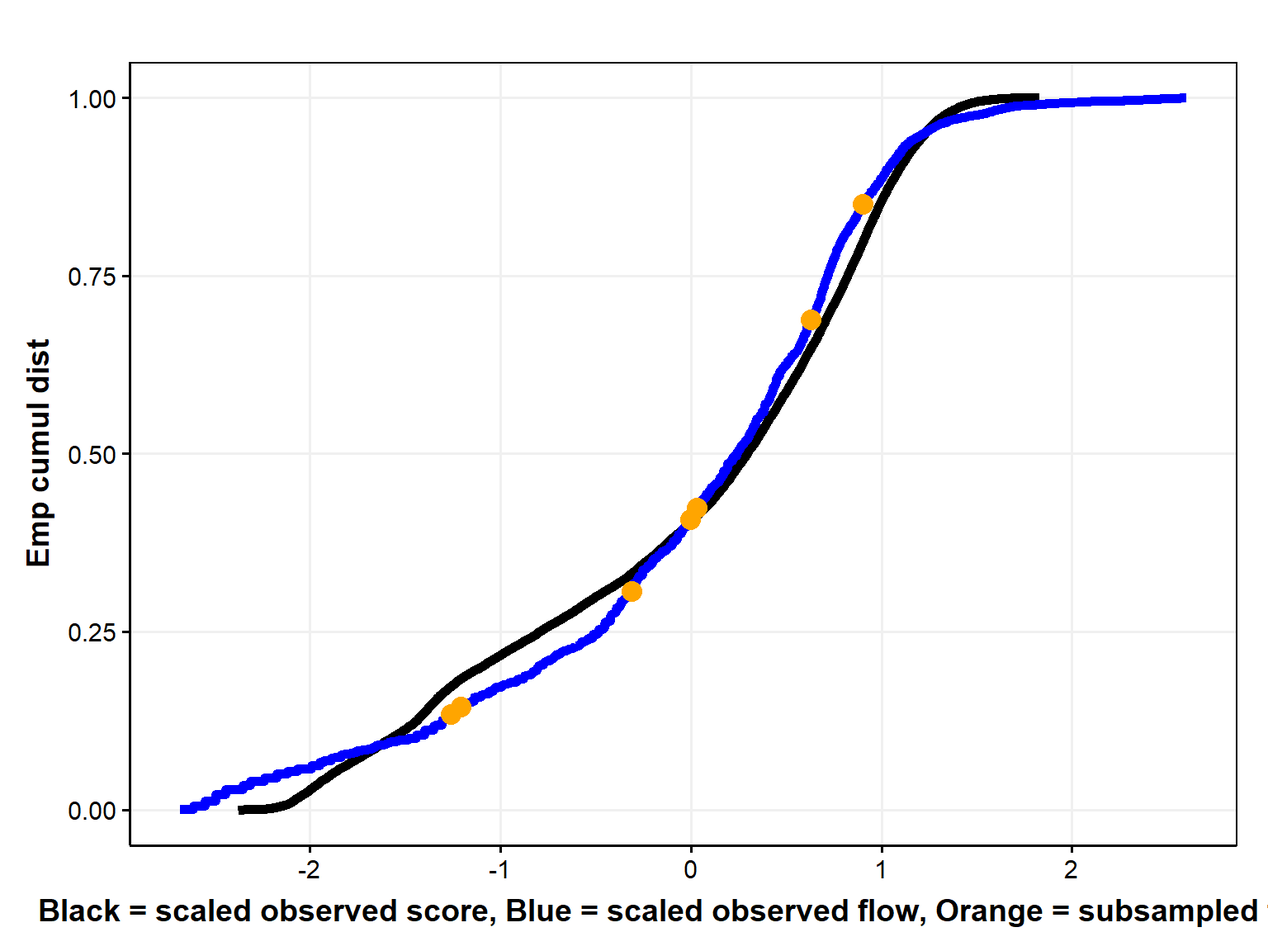
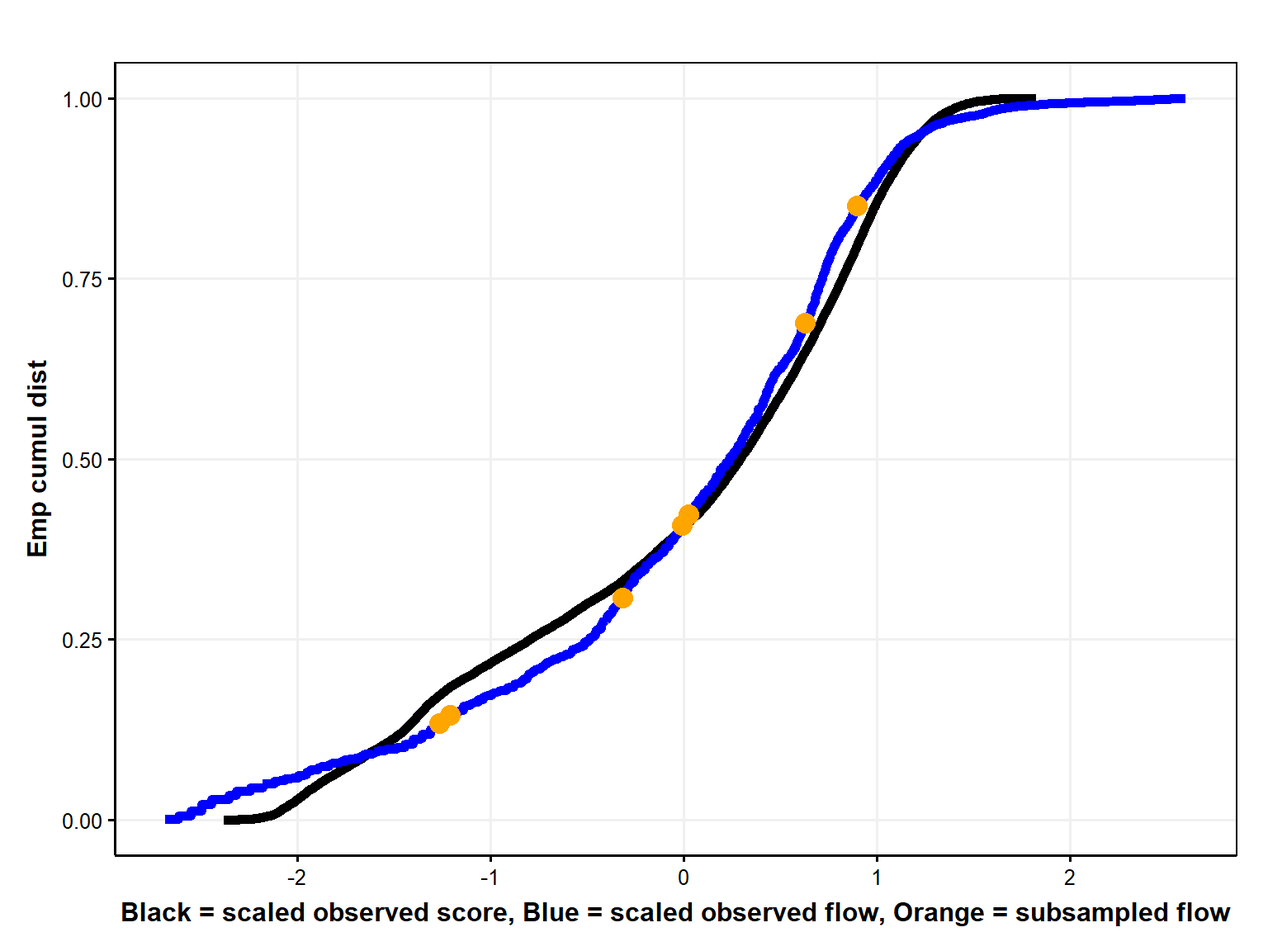
update

diff --git a/docs/realData.html b/docs/realData.html
@@ -754,7 +754,7 @@ $ifailtext
 <div class="cell">
 <details class="code-fold">
 <summary>Code</summary>
-<div class="sourceCode cell-code" id="cb26"><pre class="sourceCode r code-with-copy"><code class="sourceCode r"><span id="cb26-1"><a href="#cb26-1" aria-hidden="true" tabindex="-1"></a>get_observed_data_figs <span class="ot">&lt;-</span> <span class="cf">function</span>(dIn, dInSampleApprox, dInSample) {</span>
+<div class="sourceCode cell-code" id="cb26"><pre class="sourceCode r code-with-copy"><code class="sourceCode r"><span id="cb26-1"><a href="#cb26-1" aria-hidden="true" tabindex="-1"></a>get_observed_data_figs <span class="ot">&lt;-</span> <span class="cf">function</span>(dIn, dInSampleApprox, dInSample, <span class="at">base_size =</span> <span class="dv">12</span>) {</span>
 <span id="cb26-2"><a href="#cb26-2" aria-hidden="true" tabindex="-1"></a>  </span>
 <span id="cb26-3"><a href="#cb26-3" aria-hidden="true" tabindex="-1"></a>  fig_all <span class="ot">&lt;-</span> <span class="fu">ggplot</span>(dIn, <span class="fu">aes</span>(score_scaled, score_scaled_ecdf)) <span class="sc">+</span> </span>
 <span id="cb26-4"><a href="#cb26-4" aria-hidden="true" tabindex="-1"></a>    <span class="fu">geom_line</span>(<span class="at">size =</span> <span class="dv">2</span>) <span class="sc">+</span></span>
@@ -762,7 +762,7 @@ $ifailtext
 <span id="cb26-6"><a href="#cb26-6" aria-hidden="true" tabindex="-1"></a>    <span class="fu">geom_line</span>(<span class="fu">aes</span>(flow_cfs_log10_scaled, flow_cfs_log10_scaled_ecdf), <span class="at">color =</span> <span class="st">"blue"</span>, <span class="at">size =</span> <span class="dv">2</span>) <span class="sc">+</span></span>
 <span id="cb26-7"><a href="#cb26-7" aria-hidden="true" tabindex="-1"></a>    <span class="fu">geom_point</span>(<span class="fu">aes</span>(flow_cfs_log10_scaled, flow_cfs_log10_scaled_ecdf), <span class="at">color =</span> <span class="st">"orange"</span>, <span class="at">size =</span> <span class="dv">4</span>, <span class="at">data =</span> dInSample) <span class="sc">+</span></span>
 <span id="cb26-8"><a href="#cb26-8" aria-hidden="true" tabindex="-1"></a>    <span class="fu">labs</span>(<span class="at">x =</span> <span class="st">"Black = scaled observed score, Blue = scaled observed flow, Orange = subsampled flow"</span>, <span class="at">y =</span> <span class="st">"Emp cumul dist"</span>) <span class="sc">+</span></span>
-<span id="cb26-9"><a href="#cb26-9" aria-hidden="true" tabindex="-1"></a>    <span class="fu">theme_publication</span>() </span>
+<span id="cb26-9"><a href="#cb26-9" aria-hidden="true" tabindex="-1"></a>    <span class="fu">theme_publication</span>(<span class="at">base_size =</span> base_size) </span>
 <span id="cb26-10"><a href="#cb26-10" aria-hidden="true" tabindex="-1"></a>  </span>
 <span id="cb26-11"><a href="#cb26-11" aria-hidden="true" tabindex="-1"></a></span>
 <span id="cb26-12"><a href="#cb26-12" aria-hidden="true" tabindex="-1"></a> </span>
@@ -775,7 +775,7 @@ $ifailtext
 <span id="cb26-19"><a href="#cb26-19" aria-hidden="true" tabindex="-1"></a>  )</span>
 <span id="cb26-20"><a href="#cb26-20" aria-hidden="true" tabindex="-1"></a>}</span>
 <span id="cb26-21"><a href="#cb26-21" aria-hidden="true" tabindex="-1"></a></span>
-<span id="cb26-22"><a href="#cb26-22" aria-hidden="true" tabindex="-1"></a>get_smoothed_data_figs <span class="ot">&lt;-</span> <span class="cf">function</span>(dIn, dInSampleApprox, dInSample) {</span>
+<span id="cb26-22"><a href="#cb26-22" aria-hidden="true" tabindex="-1"></a>get_smoothed_data_figs <span class="ot">&lt;-</span> <span class="cf">function</span>(dIn, dInSampleApprox, dInSample, <span class="at">base_size_in =</span> <span class="dv">12</span>) {</span>
 <span id="cb26-23"><a href="#cb26-23" aria-hidden="true" tabindex="-1"></a> </span>
 <span id="cb26-24"><a href="#cb26-24" aria-hidden="true" tabindex="-1"></a>  fig_smooth_binomial <span class="ot">&lt;-</span> <span class="fu">ggplot</span>(dIn, <span class="fu">aes</span>(score_scaled, score_scaled_ecdf)) <span class="sc">+</span> </span>
 <span id="cb26-25"><a href="#cb26-25" aria-hidden="true" tabindex="-1"></a>    <span class="fu">geom_line</span>() <span class="sc">+</span></span>
@@ -787,7 +787,7 @@ $ifailtext
 <span id="cb26-31"><a href="#cb26-31" aria-hidden="true" tabindex="-1"></a>      ) <span class="sc">+</span></span>
 <span id="cb26-32"><a href="#cb26-32" aria-hidden="true" tabindex="-1"></a>    <span class="fu">labs</span>(<span class="at">x =</span> <span class="st">""</span>, <span class="at">y =</span> <span class="st">"Emp cumul dist"</span>) <span class="sc">+</span></span>
 <span id="cb26-33"><a href="#cb26-33" aria-hidden="true" tabindex="-1"></a>    <span class="fu">ggtitle</span>(<span class="st">"Binomial smooth of subsampled flow"</span>) <span class="sc">+</span></span>
-<span id="cb26-34"><a href="#cb26-34" aria-hidden="true" tabindex="-1"></a>    <span class="fu">theme_publication</span>() <span class="sc">+</span></span>
+<span id="cb26-34"><a href="#cb26-34" aria-hidden="true" tabindex="-1"></a>    <span class="fu">theme_publication</span>(<span class="at">base_size =</span> base_size_in) <span class="sc">+</span></span>
 <span id="cb26-35"><a href="#cb26-35" aria-hidden="true" tabindex="-1"></a>    <span class="fu">theme</span>(<span class="at">plot.title =</span> <span class="fu">element_text</span>(<span class="at">size =</span> <span class="fu">rel</span>(<span class="fl">0.8</span>)))</span>
 <span id="cb26-36"><a href="#cb26-36" aria-hidden="true" tabindex="-1"></a>  </span>
 <span id="cb26-37"><a href="#cb26-37" aria-hidden="true" tabindex="-1"></a>    </span>
@@ -801,7 +801,7 @@ $ifailtext
 <span id="cb26-45"><a href="#cb26-45" aria-hidden="true" tabindex="-1"></a>      ) <span class="sc">+</span></span>
 <span id="cb26-46"><a href="#cb26-46" aria-hidden="true" tabindex="-1"></a>    <span class="fu">labs</span>(<span class="at">x =</span> <span class="st">"Black = scaled image score, Orange = subsampled flow"</span>, <span class="at">y =</span> <span class="st">"Emp cumul dist"</span>) <span class="sc">+</span></span>
 <span id="cb26-47"><a href="#cb26-47" aria-hidden="true" tabindex="-1"></a>    <span class="fu">ggtitle</span>(<span class="st">"GAM smooth of subsampled flow"</span>) <span class="sc">+</span></span>
-<span id="cb26-48"><a href="#cb26-48" aria-hidden="true" tabindex="-1"></a>    <span class="fu">theme_publication</span>() <span class="sc">+</span></span>
+<span id="cb26-48"><a href="#cb26-48" aria-hidden="true" tabindex="-1"></a>    <span class="fu">theme_publication</span>(<span class="at">base_size =</span> base_size_in) <span class="sc">+</span></span>
 <span id="cb26-49"><a href="#cb26-49" aria-hidden="true" tabindex="-1"></a>    <span class="fu">theme</span>(<span class="at">plot.title =</span> <span class="fu">element_text</span>(<span class="at">size =</span> <span class="fu">rel</span>(<span class="fl">0.8</span>)))</span>
 <span id="cb26-50"><a href="#cb26-50" aria-hidden="true" tabindex="-1"></a>  </span>
 <span id="cb26-51"><a href="#cb26-51" aria-hidden="true" tabindex="-1"></a>  <span class="co"># make ggtitle smaller </span></span>
@@ -812,7 +812,7 @@ $ifailtext
 <span id="cb26-56"><a href="#cb26-56" aria-hidden="true" tabindex="-1"></a>    <span class="fu">labs</span>(<span class="at">x =</span> <span class="st">""</span>, <span class="at">y =</span> <span class="st">"Emp cumul dist"</span>) <span class="sc">+</span></span>
 <span id="cb26-57"><a href="#cb26-57" aria-hidden="true" tabindex="-1"></a>    <span class="co"># smaller font size for ggtitle </span></span>
 <span id="cb26-58"><a href="#cb26-58" aria-hidden="true" tabindex="-1"></a>    <span class="fu">ggtitle</span>(<span class="st">"Linear interpolation of subsampled flow"</span>) <span class="sc">+</span></span>
-<span id="cb26-59"><a href="#cb26-59" aria-hidden="true" tabindex="-1"></a>    <span class="fu">theme_publication</span>() <span class="sc">+</span></span>
+<span id="cb26-59"><a href="#cb26-59" aria-hidden="true" tabindex="-1"></a>    <span class="fu">theme_publication</span>(<span class="at">base_size =</span> base_size_in) <span class="sc">+</span></span>
 <span id="cb26-60"><a href="#cb26-60" aria-hidden="true" tabindex="-1"></a>    <span class="fu">theme</span>(<span class="at">plot.title =</span> <span class="fu">element_text</span>(<span class="at">size =</span> <span class="fu">rel</span>(<span class="fl">0.8</span>)))</span>
 <span id="cb26-61"><a href="#cb26-61" aria-hidden="true" tabindex="-1"></a>  </span>
 <span id="cb26-62"><a href="#cb26-62" aria-hidden="true" tabindex="-1"></a>  <span class="fu">return</span>(</span>
@@ -825,7 +825,7 @@ $ifailtext
 <span id="cb26-69"><a href="#cb26-69" aria-hidden="true" tabindex="-1"></a>}</span>
 <span id="cb26-70"><a href="#cb26-70" aria-hidden="true" tabindex="-1"></a></span>
 <span id="cb26-71"><a href="#cb26-71" aria-hidden="true" tabindex="-1"></a></span>
-<span id="cb26-72"><a href="#cb26-72" aria-hidden="true" tabindex="-1"></a>plotSubSample <span class="ot">&lt;-</span> <span class="cf">function</span>(dIn0, numSample){</span>
+<span id="cb26-72"><a href="#cb26-72" aria-hidden="true" tabindex="-1"></a>plotSubSample <span class="ot">&lt;-</span> <span class="cf">function</span>(dIn0, numSample, <span class="at">base_size_in =</span> <span class="dv">12</span>){</span>
 <span id="cb26-73"><a href="#cb26-73" aria-hidden="true" tabindex="-1"></a></span>
 <span id="cb26-74"><a href="#cb26-74" aria-hidden="true" tabindex="-1"></a>   dIn <span class="ot">&lt;-</span> dIn0 <span class="sc">|&gt;</span> </span>
 <span id="cb26-75"><a href="#cb26-75" aria-hidden="true" tabindex="-1"></a>     dplyr<span class="sc">::</span><span class="fu">select</span>(</span>
@@ -851,8 +851,8 @@ $ifailtext
 <span id="cb26-95"><a href="#cb26-95" aria-hidden="true" tabindex="-1"></a>    )</span>
 <span id="cb26-96"><a href="#cb26-96" aria-hidden="true" tabindex="-1"></a>  </span>
 <span id="cb26-97"><a href="#cb26-97" aria-hidden="true" tabindex="-1"></a>  <span class="co"># these data are the same with or without anchors</span></span>
-<span id="cb26-98"><a href="#cb26-98" aria-hidden="true" tabindex="-1"></a>  get_observed_data_figs <span class="ot">&lt;-</span> <span class="fu">get_observed_data_figs</span>(dIn, dInSampleApprox_no_anchors, dInSample_no_anchors)</span>
-<span id="cb26-99"><a href="#cb26-99" aria-hidden="true" tabindex="-1"></a>  get_smoothed_data_figs_no_anchors <span class="ot">&lt;-</span> <span class="fu">get_smoothed_data_figs</span>(dIn, dInSampleApprox_no_anchors, dInSample_no_anchors)</span>
+<span id="cb26-98"><a href="#cb26-98" aria-hidden="true" tabindex="-1"></a>  get_observed_data_figs <span class="ot">&lt;-</span> <span class="fu">get_observed_data_figs</span>(dIn, dInSampleApprox_no_anchors, dInSample_no_anchors, <span class="at">base_size =</span> base_size_in)</span>
+<span id="cb26-99"><a href="#cb26-99" aria-hidden="true" tabindex="-1"></a>  get_smoothed_data_figs_no_anchors <span class="ot">&lt;-</span> <span class="fu">get_smoothed_data_figs</span>(dIn, dInSampleApprox_no_anchors, dInSample_no_anchors, <span class="at">base_size =</span> base_size_in)</span>
 <span id="cb26-100"><a href="#cb26-100" aria-hidden="true" tabindex="-1"></a>  </span>
 <span id="cb26-101"><a href="#cb26-101" aria-hidden="true" tabindex="-1"></a>  figs_observed_data <span class="ot">&lt;-</span> <span class="co">#ggarrange(</span></span>
 <span id="cb26-102"><a href="#cb26-102" aria-hidden="true" tabindex="-1"></a>    get_observed_data_figs<span class="sc">$</span>fig_all </span>
@@ -913,8 +913,8 @@ $ifailtext
 <div class="cell">
 <details class="code-fold">
 <summary>Code</summary>
-<div class="sourceCode cell-code" id="cb27"><pre class="sourceCode r code-with-copy"><code class="sourceCode r"><span id="cb27-1"><a href="#cb27-1" aria-hidden="true" tabindex="-1"></a>dummy <span class="ot">&lt;-</span> <span class="dv">1</span></span>
-<span id="cb27-2"><a href="#cb27-2" aria-hidden="true" tabindex="-1"></a><span class="fu">plotSubSample</span>(dWB0, <span class="dv">100</span>)</span></code><button title="Copy to Clipboard" class="code-copy-button"><i class="bi"></i></button></pre></div>
+<div class="sourceCode cell-code" id="cb27"><pre class="sourceCode r code-with-copy"><code class="sourceCode r"><span id="cb27-1"><a href="#cb27-1" aria-hidden="true" tabindex="-1"></a>dummy <span class="ot">&lt;-</span> <span class="dv">2</span></span>
+<span id="cb27-2"><a href="#cb27-2" aria-hidden="true" tabindex="-1"></a><span class="fu">plotSubSample</span>(dWB0, <span class="dv">100</span>, <span class="at">base_size_in =</span> <span class="dv">10</span>)</span></code><button title="Copy to Clipboard" class="code-copy-button"><i class="bi"></i></button></pre></div>
 </details>
 <div class="cell-output cell-output-stdout">
 <pre><code>$figs_observed_data</code></pre>
@@ -955,8 +955,8 @@ $figs_smoothed_data_with_anchors</code></pre>
 <div class="cell">
 <details class="code-fold">
 <summary>Code</summary>
-<div class="sourceCode cell-code" id="cb31"><pre class="sourceCode r code-with-copy"><code class="sourceCode r"><span id="cb31-1"><a href="#cb31-1" aria-hidden="true" tabindex="-1"></a>dummy <span class="ot">&lt;-</span> <span class="dv">1</span></span>
-<span id="cb31-2"><a href="#cb31-2" aria-hidden="true" tabindex="-1"></a><span class="fu">plotSubSample</span>(dWB0, <span class="dv">10</span>)</span></code><button title="Copy to Clipboard" class="code-copy-button"><i class="bi"></i></button></pre></div>
+<div class="sourceCode cell-code" id="cb31"><pre class="sourceCode r code-with-copy"><code class="sourceCode r"><span id="cb31-1"><a href="#cb31-1" aria-hidden="true" tabindex="-1"></a>dummy <span class="ot">&lt;-</span> <span class="dv">2</span></span>
+<span id="cb31-2"><a href="#cb31-2" aria-hidden="true" tabindex="-1"></a><span class="fu">plotSubSample</span>(dWB0, <span class="dv">10</span>, <span class="at">base_size_in =</span> <span class="dv">8</span>)</span></code><button title="Copy to Clipboard" class="code-copy-button"><i class="bi"></i></button></pre></div>
 </details>
 <div class="cell-output cell-output-stdout">
 <pre><code>$figs_observed_data</code></pre>
@@ -997,7 +997,7 @@ $figs_smoothed_data_with_anchors</code></pre>
 <div class="cell">
 <details class="code-fold">
 <summary>Code</summary>
-<div class="sourceCode cell-code" id="cb35"><pre class="sourceCode r code-with-copy"><code class="sourceCode r"><span id="cb35-1"><a href="#cb35-1" aria-hidden="true" tabindex="-1"></a>dummy <span class="ot">&lt;-</span> <span class="dv">1</span></span>
+<div class="sourceCode cell-code" id="cb35"><pre class="sourceCode r code-with-copy"><code class="sourceCode r"><span id="cb35-1"><a href="#cb35-1" aria-hidden="true" tabindex="-1"></a>dummy <span class="ot">&lt;-</span> <span class="dv">2</span></span>
 <span id="cb35-2"><a href="#cb35-2" aria-hidden="true" tabindex="-1"></a><span class="fu">plotSubSample</span>(dWB0, <span class="dv">7</span>)</span></code><button title="Copy to Clipboard" class="code-copy-button"><i class="bi"></i></button></pre></div>
 </details>
 <div class="cell-output cell-output-stdout">
@@ -1039,7 +1039,7 @@ $figs_smoothed_data_with_anchors</code></pre>
 <div class="cell">
 <details class="code-fold">
 <summary>Code</summary>
-<div class="sourceCode cell-code" id="cb39"><pre class="sourceCode r code-with-copy"><code class="sourceCode r"><span id="cb39-1"><a href="#cb39-1" aria-hidden="true" tabindex="-1"></a>dummy <span class="ot">&lt;-</span> <span class="dv">1</span></span>
+<div class="sourceCode cell-code" id="cb39"><pre class="sourceCode r code-with-copy"><code class="sourceCode r"><span id="cb39-1"><a href="#cb39-1" aria-hidden="true" tabindex="-1"></a>dummy <span class="ot">&lt;-</span> <span class="dv">2</span></span>
 <span id="cb39-2"><a href="#cb39-2" aria-hidden="true" tabindex="-1"></a><span class="fu">plotSubSample</span>(dWB0, <span class="dv">4</span>)</span></code><button title="Copy to Clipboard" class="code-copy-button"><i class="bi"></i></button></pre></div>
 </details>
 <div class="cell-output cell-output-stdout">
@@ -1081,7 +1081,7 @@ $figs_smoothed_data_with_anchors</code></pre>
 <div class="cell">
 <details class="code-fold">
 <summary>Code</summary>
-<div class="sourceCode cell-code" id="cb43"><pre class="sourceCode r code-with-copy"><code class="sourceCode r"><span id="cb43-1"><a href="#cb43-1" aria-hidden="true" tabindex="-1"></a>dummy <span class="ot">&lt;-</span> <span class="dv">1</span></span>
+<div class="sourceCode cell-code" id="cb43"><pre class="sourceCode r code-with-copy"><code class="sourceCode r"><span id="cb43-1"><a href="#cb43-1" aria-hidden="true" tabindex="-1"></a>dummy <span class="ot">&lt;-</span> <span class="dv">2</span></span>
 <span id="cb43-2"><a href="#cb43-2" aria-hidden="true" tabindex="-1"></a><span class="fu">plotSubSample</span>(dWB0, <span class="dv">3</span>)</span></code><button title="Copy to Clipboard" class="code-copy-button"><i class="bi"></i></button></pre></div>
 </details>
 <div class="cell-output cell-output-stdout">
@@ -2132,7 +2132,7 @@ window.document.addEventListener("DOMContentLoaded", function (event) {
 <span id="cb50-376"><a href="#cb50-376" aria-hidden="true" tabindex="-1"></a><span class="in">```{r}</span></span>
 <span id="cb50-377"><a href="#cb50-377" aria-hidden="true" tabindex="-1"></a><span class="co">#| label: subsampleFlow</span></span>
 <span id="cb50-378"><a href="#cb50-378" aria-hidden="true" tabindex="-1"></a></span>
-<span id="cb50-379"><a href="#cb50-379" aria-hidden="true" tabindex="-1"></a>get_observed_data_figs <span class="ot">&lt;-</span> <span class="cf">function</span>(dIn, dInSampleApprox, dInSample) {</span>
+<span id="cb50-379"><a href="#cb50-379" aria-hidden="true" tabindex="-1"></a>get_observed_data_figs <span class="ot">&lt;-</span> <span class="cf">function</span>(dIn, dInSampleApprox, dInSample, <span class="at">base_size =</span> <span class="dv">12</span>) {</span>
 <span id="cb50-380"><a href="#cb50-380" aria-hidden="true" tabindex="-1"></a>  </span>
 <span id="cb50-381"><a href="#cb50-381" aria-hidden="true" tabindex="-1"></a>  fig_all <span class="ot">&lt;-</span> <span class="fu">ggplot</span>(dIn, <span class="fu">aes</span>(score_scaled, score_scaled_ecdf)) <span class="sc">+</span> </span>
 <span id="cb50-382"><a href="#cb50-382" aria-hidden="true" tabindex="-1"></a>    <span class="fu">geom_line</span>(<span class="at">size =</span> <span class="dv">2</span>) <span class="sc">+</span></span>
@@ -2140,7 +2140,7 @@ window.document.addEventListener("DOMContentLoaded", function (event) {
 <span id="cb50-384"><a href="#cb50-384" aria-hidden="true" tabindex="-1"></a>    <span class="fu">geom_line</span>(<span class="fu">aes</span>(flow_cfs_log10_scaled, flow_cfs_log10_scaled_ecdf), <span class="at">color =</span> <span class="st">"blue"</span>, <span class="at">size =</span> <span class="dv">2</span>) <span class="sc">+</span></span>
 <span id="cb50-385"><a href="#cb50-385" aria-hidden="true" tabindex="-1"></a>    <span class="fu">geom_point</span>(<span class="fu">aes</span>(flow_cfs_log10_scaled, flow_cfs_log10_scaled_ecdf), <span class="at">color =</span> <span class="st">"orange"</span>, <span class="at">size =</span> <span class="dv">4</span>, <span class="at">data =</span> dInSample) <span class="sc">+</span></span>
 <span id="cb50-386"><a href="#cb50-386" aria-hidden="true" tabindex="-1"></a>    <span class="fu">labs</span>(<span class="at">x =</span> <span class="st">"Black = scaled observed score, Blue = scaled observed flow, Orange = subsampled flow"</span>, <span class="at">y =</span> <span class="st">"Emp cumul dist"</span>) <span class="sc">+</span></span>
-<span id="cb50-387"><a href="#cb50-387" aria-hidden="true" tabindex="-1"></a>    <span class="fu">theme_publication</span>() </span>
+<span id="cb50-387"><a href="#cb50-387" aria-hidden="true" tabindex="-1"></a>    <span class="fu">theme_publication</span>(<span class="at">base_size =</span> base_size) </span>
 <span id="cb50-388"><a href="#cb50-388" aria-hidden="true" tabindex="-1"></a>  </span>
 <span id="cb50-389"><a href="#cb50-389" aria-hidden="true" tabindex="-1"></a></span>
 <span id="cb50-390"><a href="#cb50-390" aria-hidden="true" tabindex="-1"></a> </span>
@@ -2153,7 +2153,7 @@ window.document.addEventListener("DOMContentLoaded", function (event) {
 <span id="cb50-397"><a href="#cb50-397" aria-hidden="true" tabindex="-1"></a>  )</span>
 <span id="cb50-398"><a href="#cb50-398" aria-hidden="true" tabindex="-1"></a>}</span>
 <span id="cb50-399"><a href="#cb50-399" aria-hidden="true" tabindex="-1"></a></span>
-<span id="cb50-400"><a href="#cb50-400" aria-hidden="true" tabindex="-1"></a>get_smoothed_data_figs <span class="ot">&lt;-</span> <span class="cf">function</span>(dIn, dInSampleApprox, dInSample) {</span>
+<span id="cb50-400"><a href="#cb50-400" aria-hidden="true" tabindex="-1"></a>get_smoothed_data_figs <span class="ot">&lt;-</span> <span class="cf">function</span>(dIn, dInSampleApprox, dInSample, <span class="at">base_size_in =</span> <span class="dv">12</span>) {</span>
 <span id="cb50-401"><a href="#cb50-401" aria-hidden="true" tabindex="-1"></a> </span>
 <span id="cb50-402"><a href="#cb50-402" aria-hidden="true" tabindex="-1"></a>  fig_smooth_binomial <span class="ot">&lt;-</span> <span class="fu">ggplot</span>(dIn, <span class="fu">aes</span>(score_scaled, score_scaled_ecdf)) <span class="sc">+</span> </span>
 <span id="cb50-403"><a href="#cb50-403" aria-hidden="true" tabindex="-1"></a>    <span class="fu">geom_line</span>() <span class="sc">+</span></span>
@@ -2165,7 +2165,7 @@ window.document.addEventListener("DOMContentLoaded", function (event) {
 <span id="cb50-409"><a href="#cb50-409" aria-hidden="true" tabindex="-1"></a>      ) <span class="sc">+</span></span>
 <span id="cb50-410"><a href="#cb50-410" aria-hidden="true" tabindex="-1"></a>    <span class="fu">labs</span>(<span class="at">x =</span> <span class="st">""</span>, <span class="at">y =</span> <span class="st">"Emp cumul dist"</span>) <span class="sc">+</span></span>
 <span id="cb50-411"><a href="#cb50-411" aria-hidden="true" tabindex="-1"></a>    <span class="fu">ggtitle</span>(<span class="st">"Binomial smooth of subsampled flow"</span>) <span class="sc">+</span></span>
-<span id="cb50-412"><a href="#cb50-412" aria-hidden="true" tabindex="-1"></a>    <span class="fu">theme_publication</span>() <span class="sc">+</span></span>
+<span id="cb50-412"><a href="#cb50-412" aria-hidden="true" tabindex="-1"></a>    <span class="fu">theme_publication</span>(<span class="at">base_size =</span> base_size_in) <span class="sc">+</span></span>
 <span id="cb50-413"><a href="#cb50-413" aria-hidden="true" tabindex="-1"></a>    <span class="fu">theme</span>(<span class="at">plot.title =</span> <span class="fu">element_text</span>(<span class="at">size =</span> <span class="fu">rel</span>(<span class="fl">0.8</span>)))</span>
 <span id="cb50-414"><a href="#cb50-414" aria-hidden="true" tabindex="-1"></a>  </span>
 <span id="cb50-415"><a href="#cb50-415" aria-hidden="true" tabindex="-1"></a>    </span>
@@ -2179,7 +2179,7 @@ window.document.addEventListener("DOMContentLoaded", function (event) {
 <span id="cb50-423"><a href="#cb50-423" aria-hidden="true" tabindex="-1"></a>      ) <span class="sc">+</span></span>
 <span id="cb50-424"><a href="#cb50-424" aria-hidden="true" tabindex="-1"></a>    <span class="fu">labs</span>(<span class="at">x =</span> <span class="st">"Black = scaled image score, Orange = subsampled flow"</span>, <span class="at">y =</span> <span class="st">"Emp cumul dist"</span>) <span class="sc">+</span></span>
 <span id="cb50-425"><a href="#cb50-425" aria-hidden="true" tabindex="-1"></a>    <span class="fu">ggtitle</span>(<span class="st">"GAM smooth of subsampled flow"</span>) <span class="sc">+</span></span>
-<span id="cb50-426"><a href="#cb50-426" aria-hidden="true" tabindex="-1"></a>    <span class="fu">theme_publication</span>() <span class="sc">+</span></span>
+<span id="cb50-426"><a href="#cb50-426" aria-hidden="true" tabindex="-1"></a>    <span class="fu">theme_publication</span>(<span class="at">base_size =</span> base_size_in) <span class="sc">+</span></span>
 <span id="cb50-427"><a href="#cb50-427" aria-hidden="true" tabindex="-1"></a>    <span class="fu">theme</span>(<span class="at">plot.title =</span> <span class="fu">element_text</span>(<span class="at">size =</span> <span class="fu">rel</span>(<span class="fl">0.8</span>)))</span>
 <span id="cb50-428"><a href="#cb50-428" aria-hidden="true" tabindex="-1"></a>  </span>
 <span id="cb50-429"><a href="#cb50-429" aria-hidden="true" tabindex="-1"></a>  <span class="co"># make ggtitle smaller </span></span>
@@ -2190,7 +2190,7 @@ window.document.addEventListener("DOMContentLoaded", function (event) {
 <span id="cb50-434"><a href="#cb50-434" aria-hidden="true" tabindex="-1"></a>    <span class="fu">labs</span>(<span class="at">x =</span> <span class="st">""</span>, <span class="at">y =</span> <span class="st">"Emp cumul dist"</span>) <span class="sc">+</span></span>
 <span id="cb50-435"><a href="#cb50-435" aria-hidden="true" tabindex="-1"></a>    <span class="co"># smaller font size for ggtitle </span></span>
 <span id="cb50-436"><a href="#cb50-436" aria-hidden="true" tabindex="-1"></a>    <span class="fu">ggtitle</span>(<span class="st">"Linear interpolation of subsampled flow"</span>) <span class="sc">+</span></span>
-<span id="cb50-437"><a href="#cb50-437" aria-hidden="true" tabindex="-1"></a>    <span class="fu">theme_publication</span>() <span class="sc">+</span></span>
+<span id="cb50-437"><a href="#cb50-437" aria-hidden="true" tabindex="-1"></a>    <span class="fu">theme_publication</span>(<span class="at">base_size =</span> base_size_in) <span class="sc">+</span></span>
 <span id="cb50-438"><a href="#cb50-438" aria-hidden="true" tabindex="-1"></a>    <span class="fu">theme</span>(<span class="at">plot.title =</span> <span class="fu">element_text</span>(<span class="at">size =</span> <span class="fu">rel</span>(<span class="fl">0.8</span>)))</span>
 <span id="cb50-439"><a href="#cb50-439" aria-hidden="true" tabindex="-1"></a>  </span>
 <span id="cb50-440"><a href="#cb50-440" aria-hidden="true" tabindex="-1"></a>  <span class="fu">return</span>(</span>
@@ -2203,7 +2203,7 @@ window.document.addEventListener("DOMContentLoaded", function (event) {
 <span id="cb50-447"><a href="#cb50-447" aria-hidden="true" tabindex="-1"></a>}</span>
 <span id="cb50-448"><a href="#cb50-448" aria-hidden="true" tabindex="-1"></a></span>
 <span id="cb50-449"><a href="#cb50-449" aria-hidden="true" tabindex="-1"></a></span>
-<span id="cb50-450"><a href="#cb50-450" aria-hidden="true" tabindex="-1"></a>plotSubSample <span class="ot">&lt;-</span> <span class="cf">function</span>(dIn0, numSample){</span>
+<span id="cb50-450"><a href="#cb50-450" aria-hidden="true" tabindex="-1"></a>plotSubSample <span class="ot">&lt;-</span> <span class="cf">function</span>(dIn0, numSample, <span class="at">base_size_in =</span> <span class="dv">12</span>){</span>
 <span id="cb50-451"><a href="#cb50-451" aria-hidden="true" tabindex="-1"></a></span>
 <span id="cb50-452"><a href="#cb50-452" aria-hidden="true" tabindex="-1"></a>   dIn <span class="ot">&lt;-</span> dIn0 <span class="sc">|&gt;</span> </span>
 <span id="cb50-453"><a href="#cb50-453" aria-hidden="true" tabindex="-1"></a>     dplyr<span class="sc">::</span><span class="fu">select</span>(</span>
@@ -2229,8 +2229,8 @@ window.document.addEventListener("DOMContentLoaded", function (event) {
 <span id="cb50-473"><a href="#cb50-473" aria-hidden="true" tabindex="-1"></a>    )</span>
 <span id="cb50-474"><a href="#cb50-474" aria-hidden="true" tabindex="-1"></a>  </span>
 <span id="cb50-475"><a href="#cb50-475" aria-hidden="true" tabindex="-1"></a>  <span class="co"># these data are the same with or without anchors</span></span>
-<span id="cb50-476"><a href="#cb50-476" aria-hidden="true" tabindex="-1"></a>  get_observed_data_figs <span class="ot">&lt;-</span> <span class="fu">get_observed_data_figs</span>(dIn, dInSampleApprox_no_anchors, dInSample_no_anchors)</span>
-<span id="cb50-477"><a href="#cb50-477" aria-hidden="true" tabindex="-1"></a>  get_smoothed_data_figs_no_anchors <span class="ot">&lt;-</span> <span class="fu">get_smoothed_data_figs</span>(dIn, dInSampleApprox_no_anchors, dInSample_no_anchors)</span>
+<span id="cb50-476"><a href="#cb50-476" aria-hidden="true" tabindex="-1"></a>  get_observed_data_figs <span class="ot">&lt;-</span> <span class="fu">get_observed_data_figs</span>(dIn, dInSampleApprox_no_anchors, dInSample_no_anchors, <span class="at">base_size =</span> base_size_in)</span>
+<span id="cb50-477"><a href="#cb50-477" aria-hidden="true" tabindex="-1"></a>  get_smoothed_data_figs_no_anchors <span class="ot">&lt;-</span> <span class="fu">get_smoothed_data_figs</span>(dIn, dInSampleApprox_no_anchors, dInSample_no_anchors, <span class="at">base_size =</span> base_size_in)</span>
 <span id="cb50-478"><a href="#cb50-478" aria-hidden="true" tabindex="-1"></a>  </span>
 <span id="cb50-479"><a href="#cb50-479" aria-hidden="true" tabindex="-1"></a>  figs_observed_data <span class="ot">&lt;-</span> <span class="co">#ggarrange(</span></span>
 <span id="cb50-480"><a href="#cb50-480" aria-hidden="true" tabindex="-1"></a>    get_observed_data_figs<span class="sc">$</span>fig_all </span>
@@ -2290,8 +2290,8 @@ window.document.addEventListener("DOMContentLoaded", function (event) {
 <span id="cb50-536"><a href="#cb50-536" aria-hidden="true" tabindex="-1"></a><span class="in">```{r}</span></span>
 <span id="cb50-537"><a href="#cb50-537" aria-hidden="true" tabindex="-1"></a><span class="co">#| label: plotSubSample_100</span></span>
 <span id="cb50-538"><a href="#cb50-538" aria-hidden="true" tabindex="-1"></a></span>
-<span id="cb50-539"><a href="#cb50-539" aria-hidden="true" tabindex="-1"></a>dummy <span class="ot">&lt;-</span> <span class="dv">1</span></span>
-<span id="cb50-540"><a href="#cb50-540" aria-hidden="true" tabindex="-1"></a><span class="fu">plotSubSample</span>(dWB0, <span class="dv">100</span>)</span>
+<span id="cb50-539"><a href="#cb50-539" aria-hidden="true" tabindex="-1"></a>dummy <span class="ot">&lt;-</span> <span class="dv">2</span></span>
+<span id="cb50-540"><a href="#cb50-540" aria-hidden="true" tabindex="-1"></a><span class="fu">plotSubSample</span>(dWB0, <span class="dv">100</span>, <span class="at">base_size_in =</span> <span class="dv">10</span>)</span>
 <span id="cb50-541"><a href="#cb50-541" aria-hidden="true" tabindex="-1"></a></span>
 <span id="cb50-542"><a href="#cb50-542" aria-hidden="true" tabindex="-1"></a><span class="in">```</span></span>
 <span id="cb50-543"><a href="#cb50-543" aria-hidden="true" tabindex="-1"></a></span>
@@ -2299,8 +2299,8 @@ window.document.addEventListener("DOMContentLoaded", function (event) {
 <span id="cb50-547"><a href="#cb50-547" aria-hidden="true" tabindex="-1"></a><span class="in">```{r}</span></span>
 <span id="cb50-548"><a href="#cb50-548" aria-hidden="true" tabindex="-1"></a><span class="co">#| label: plotSubSample_10</span></span>
 <span id="cb50-549"><a href="#cb50-549" aria-hidden="true" tabindex="-1"></a></span>
-<span id="cb50-550"><a href="#cb50-550" aria-hidden="true" tabindex="-1"></a>dummy <span class="ot">&lt;-</span> <span class="dv">1</span></span>
-<span id="cb50-551"><a href="#cb50-551" aria-hidden="true" tabindex="-1"></a><span class="fu">plotSubSample</span>(dWB0, <span class="dv">10</span>)</span>
+<span id="cb50-550"><a href="#cb50-550" aria-hidden="true" tabindex="-1"></a>dummy <span class="ot">&lt;-</span> <span class="dv">2</span></span>
+<span id="cb50-551"><a href="#cb50-551" aria-hidden="true" tabindex="-1"></a><span class="fu">plotSubSample</span>(dWB0, <span class="dv">10</span>, <span class="at">base_size_in =</span> <span class="dv">8</span>)</span>
 <span id="cb50-552"><a href="#cb50-552" aria-hidden="true" tabindex="-1"></a></span>
 <span id="cb50-553"><a href="#cb50-553" aria-hidden="true" tabindex="-1"></a><span class="in">```</span></span>
 <span id="cb50-554"><a href="#cb50-554" aria-hidden="true" tabindex="-1"></a></span>
@@ -2308,7 +2308,7 @@ window.document.addEventListener("DOMContentLoaded", function (event) {
 <span id="cb50-558"><a href="#cb50-558" aria-hidden="true" tabindex="-1"></a><span class="in">```{r}</span></span>
 <span id="cb50-559"><a href="#cb50-559" aria-hidden="true" tabindex="-1"></a><span class="co">#| label: plotSubSample_7</span></span>
 <span id="cb50-560"><a href="#cb50-560" aria-hidden="true" tabindex="-1"></a></span>
-<span id="cb50-561"><a href="#cb50-561" aria-hidden="true" tabindex="-1"></a>dummy <span class="ot">&lt;-</span> <span class="dv">1</span></span>
+<span id="cb50-561"><a href="#cb50-561" aria-hidden="true" tabindex="-1"></a>dummy <span class="ot">&lt;-</span> <span class="dv">2</span></span>
 <span id="cb50-562"><a href="#cb50-562" aria-hidden="true" tabindex="-1"></a><span class="fu">plotSubSample</span>(dWB0, <span class="dv">7</span>)</span>
 <span id="cb50-563"><a href="#cb50-563" aria-hidden="true" tabindex="-1"></a></span>
 <span id="cb50-564"><a href="#cb50-564" aria-hidden="true" tabindex="-1"></a><span class="in">```</span></span>
@@ -2318,7 +2318,7 @@ window.document.addEventListener("DOMContentLoaded", function (event) {
 <span id="cb50-570"><a href="#cb50-570" aria-hidden="true" tabindex="-1"></a><span class="in">```{r}</span></span>
 <span id="cb50-571"><a href="#cb50-571" aria-hidden="true" tabindex="-1"></a><span class="co">#| label: plotSubSample_4</span></span>
 <span id="cb50-572"><a href="#cb50-572" aria-hidden="true" tabindex="-1"></a></span>
-<span id="cb50-573"><a href="#cb50-573" aria-hidden="true" tabindex="-1"></a>dummy <span class="ot">&lt;-</span> <span class="dv">1</span></span>
+<span id="cb50-573"><a href="#cb50-573" aria-hidden="true" tabindex="-1"></a>dummy <span class="ot">&lt;-</span> <span class="dv">2</span></span>
 <span id="cb50-574"><a href="#cb50-574" aria-hidden="true" tabindex="-1"></a><span class="fu">plotSubSample</span>(dWB0, <span class="dv">4</span>)</span>
 <span id="cb50-575"><a href="#cb50-575" aria-hidden="true" tabindex="-1"></a></span>
 <span id="cb50-576"><a href="#cb50-576" aria-hidden="true" tabindex="-1"></a><span class="in">```</span></span>
@@ -2327,7 +2327,7 @@ window.document.addEventListener("DOMContentLoaded", function (event) {
 <span id="cb50-581"><a href="#cb50-581" aria-hidden="true" tabindex="-1"></a><span class="in">```{r}</span></span>
 <span id="cb50-582"><a href="#cb50-582" aria-hidden="true" tabindex="-1"></a><span class="co">#| label: plotSubSample_3</span></span>
 <span id="cb50-583"><a href="#cb50-583" aria-hidden="true" tabindex="-1"></a></span>
-<span id="cb50-584"><a href="#cb50-584" aria-hidden="true" tabindex="-1"></a>dummy <span class="ot">&lt;-</span> <span class="dv">1</span></span>
+<span id="cb50-584"><a href="#cb50-584" aria-hidden="true" tabindex="-1"></a>dummy <span class="ot">&lt;-</span> <span class="dv">2</span></span>
 <span id="cb50-585"><a href="#cb50-585" aria-hidden="true" tabindex="-1"></a><span class="fu">plotSubSample</span>(dWB0, <span class="dv">3</span>)</span>
 <span id="cb50-586"><a href="#cb50-586" aria-hidden="true" tabindex="-1"></a></span>
 <span id="cb50-587"><a href="#cb50-587" aria-hidden="true" tabindex="-1"></a><span class="in">```</span></span>
